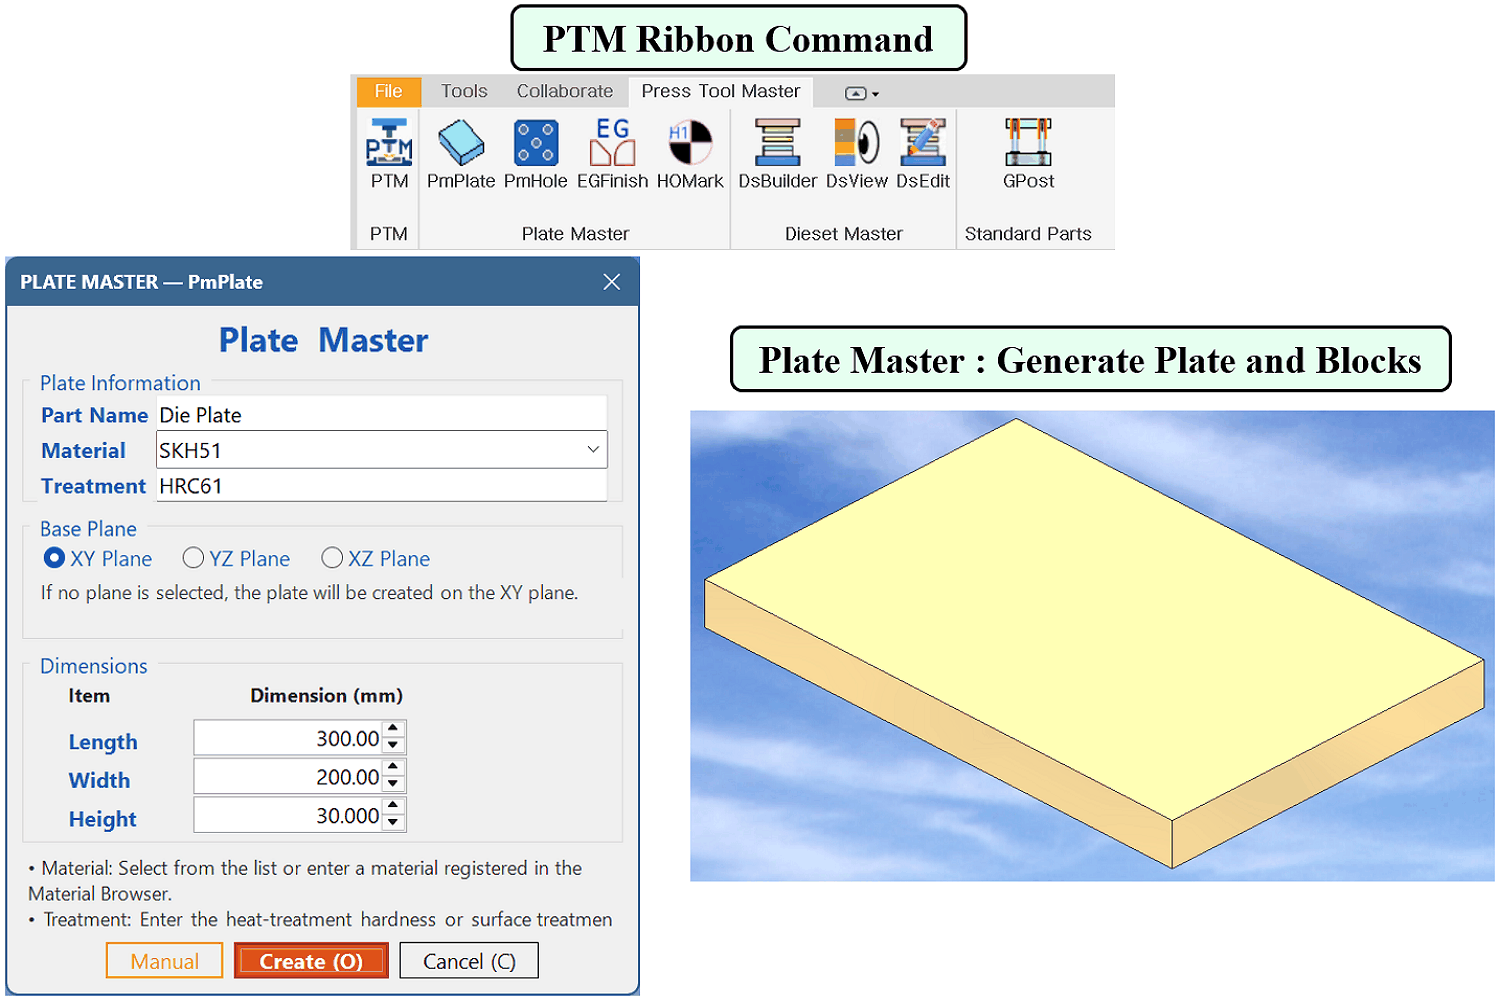
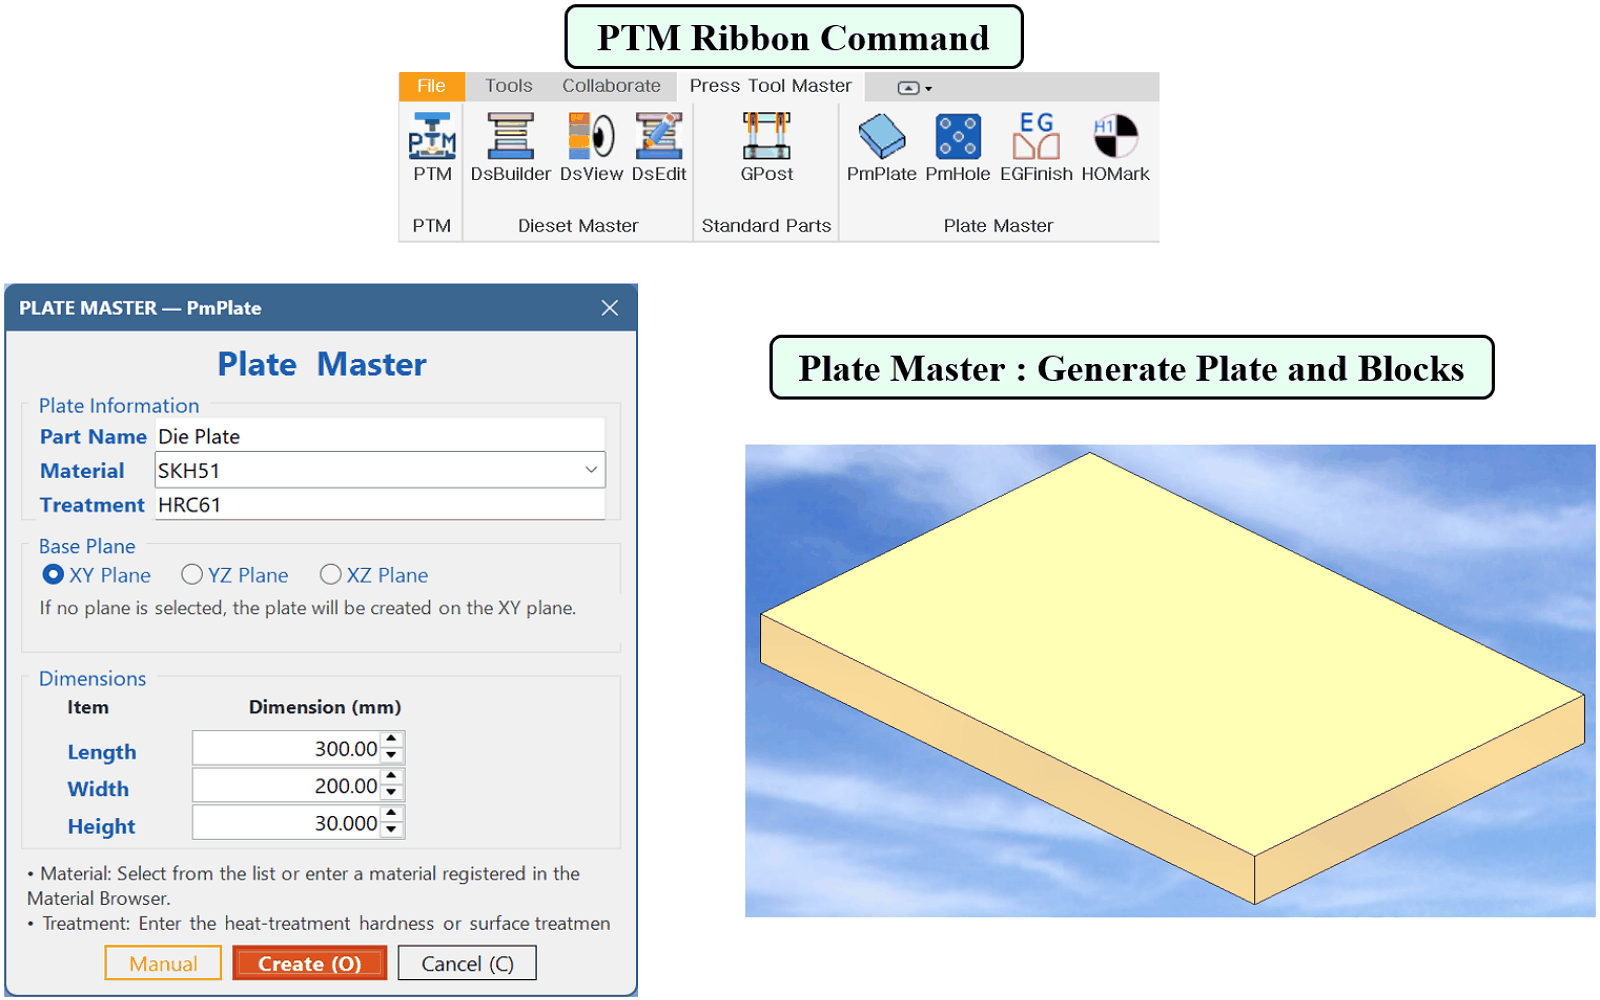
01-ribbon-pmplate

Changed region(s): [[0.0, 0.0, 0.7667, 1.0], [0.46, 0.31, 1.0, 0.93]]

diff --git a/index.html b/index.html
@@ -198,7 +198,7 @@ footer{background:#102d49;color:#cdd9e3;padding:30px 0;font-size:.9rem}
    <article class="shot reveal"><img class="ko" src="assets/06-gpost.png" alt="Guide Post Builder"><img class="en" src="assets/06-gpost-en.png" alt="Guide Post Builder"><div class="shot-body"><h3>Guide Post Builder</h3><p class="ko">스케치를 기준으로 가이드 포스트를 자동 생성합니다.</p><p class="en">Generate guide posts from sketches.</p></div></article>
    <article class="shot reveal"><img class="ko" src="assets/07-dseditor.png" alt="Dieset Editor"><img class="en" src="assets/07-dseditor-en.png" alt="Dieset Editor"><div class="shot-body"><h3>Dieset Editor</h3><p class="ko">다이셋의 구성 치수를 변경합니다.</p><p class="en">Edit die set dimensions.</p></div></article>
    <article class="shot reveal"><img class="ko" src="assets/08-dseditor2.png" alt="Dieset Editor - Standardized Die Set Reuse"><img class="en" src="assets/08-dseditor2-en.png" alt="Dieset Editor - Standardized Die Set Reuse"><div class="shot-body"><h3>Dieset Editor-2</h3><p class="ko">표준화된 다이셋 라이브러리에서 적합한 구성을 가져와 새 설계로 재구성합니다.</p><p class="en">Pulls a suitable configuration from the standardized die-set library and reconfigures it into a new design.</p></div></article>
-   <article class="shot reveal"><img class="ko" src="assets/01-ribbon-pmplate.png" alt="PTM Ribbon Command and Plate Master"><img class="en" src="assets/01-ribbon-pmplate-en.png" alt="PTM Ribbon Command and Plate Master"><div class="shot-body"><h3>PTM Ribbon Command · Plate Master</h3><p class="ko">PTM 명령을 리본에서 실행하고 플레이트와 블록을 생성합니다.</p><p class="en">Run PTM commands and generate plates and blocks.</p></div></article>
+   <article class="shot reveal"><img class="ko" src="assets/01-ribbon-pmplate.png" alt="PTM Ribbon Command and Plate Master"><img class="en" src="assets/01-ribbon-pmplate-en.png" alt="PTM Ribbon Command and Plate Master"><div class="shot-body"><h3>PTM Ribbon Command · Plate Master</h3><p class="ko">PTM Ribbon Command — PTM 명령을 리본에서 실행. Plate Master — 플레이트와 블록의 생성.</p><p class="en">PTM Ribbon Command — Run PTM commands from the ribbon. Plate Master — Generate plates and blocks.</p></div></article>
    <article class="shot reveal"><img class="ko" src="assets/02-pmhole.png" alt="Hole Master"><img class="en" src="assets/02-pmhole-en.png" alt="Hole Master"><div class="shot-body"><h3>Hole Master</h3><p class="ko">다양한 종류의 홀을 생성합니다.</p><p class="en">Create various types of holes.</p></div></article>
    <article class="shot reveal"><img class="ko" src="assets/03-homark.png" alt="Hole Marker"><img class="en" src="assets/03-homark-en.png" alt="Hole Marker"><div class="shot-body"><h3>Hole Marker</h3><p class="ko">홀 마크와 홀 테이블을 작성합니다.</p><p class="en">Generate hole marks and tables.</p></div></article>
   </div>
